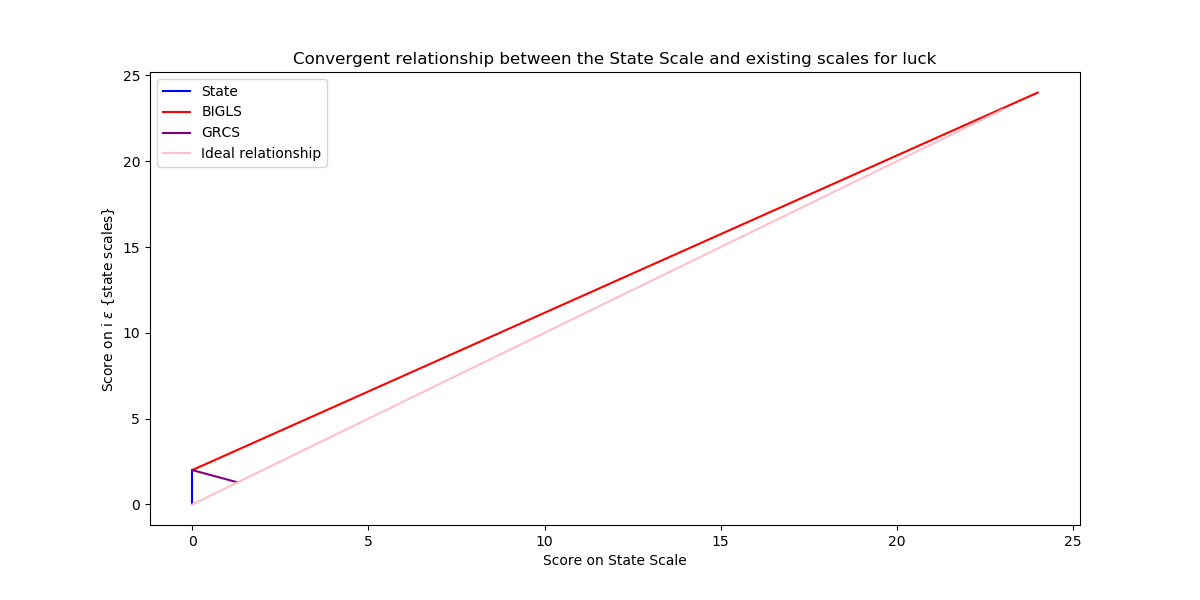
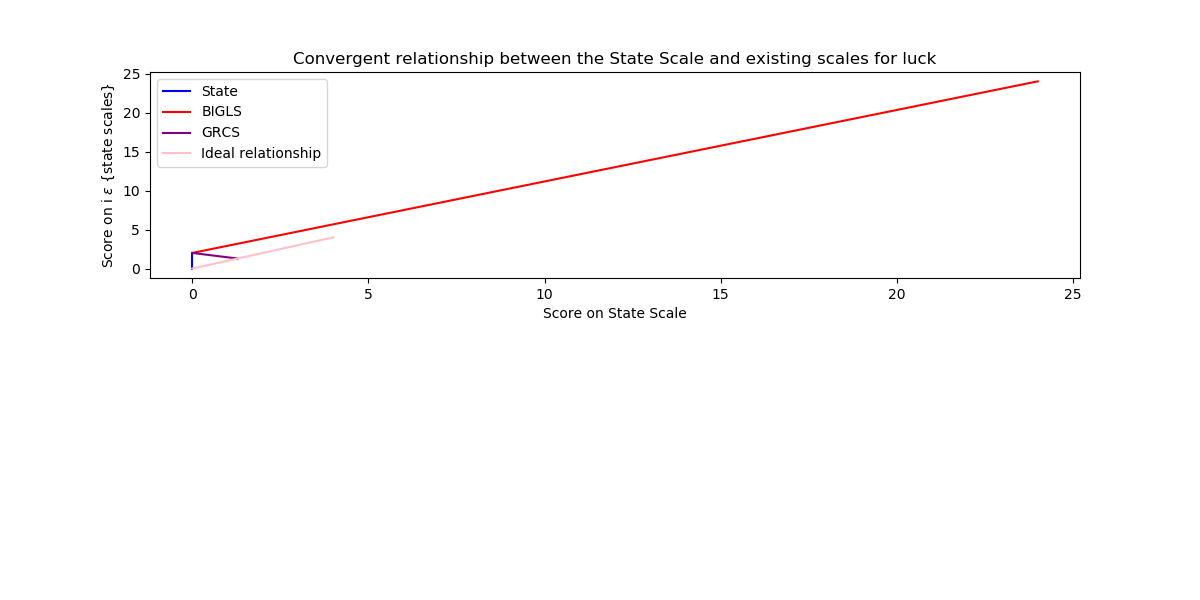
removed comments, added figures plotted, and added function to plot correlation coefficient graph

diff --git a/util.py b/util.py
@@ -49,6 +49,17 @@ def put_together(x, y):
             last = i[0]
     return toreturn
 
+def plot_corrcoef (y_plot, *args, **kwargs):
+    """
+    The purpose is to plot the graph of the scores on the state scales with the 
+        correlation coefficients
+    Input:
+        y_plot: scores of each scale {0:'State', 1:'BIGLS or GRCS', 2:'GRCS or oldState'}
+    Output:
+        None
+    """
+    return 0
+
 def plot_conv(y_plot, *args, **kwargs):
     """
     Plot all of the variables in the two lists in the form of x matrix and y
@@ -64,7 +75,7 @@ def plot_conv(y_plot, *args, **kwargs):
 
     plt.close()
     fig, axis = plt.subplots(2,1, dpi=dp, figsize=plotsize)
-#    plt.figure(1, dpi=dp, figsize=plotsize)
+    fig.tight_layout()
     
 #    one_to_one = np.arange(0, max(y_plot[0]))
     one_to_one = np.arange(0,5)
@@ -84,11 +95,8 @@ def plot_conv(y_plot, *args, **kwargs):
     axis[0].set_title("Convergent relationship between the State Scale and existing scales"+
               " for "+ kwargs.get("savefig"))
     axis[0].legend()
-#    plt.savefig(my_path + "/figures/State_vs_"+kwargs.get("savefig")+".png")
     
-
-#    plt.close()
-#    plt.figure(2, dpi=150, figsize=(8,4))
+    
     for i in range(len(y_plot)):
         y = y_plot[i]
         x_range = np.arange(len(y))
@@ -99,7 +107,7 @@ def plot_conv(y_plot, *args, **kwargs):
     axis[1].set_xlabel(kwargs.get("x_name"))
     axis[1].set_ylabel(kwargs.get("y_name"))
     axis[1].set_title(kwargs.get("title"))
-    fig.tight_layout()
+    plt.tight_layout()
     plt.savefig(my_path + "/figures/all_scales_and"+kwargs.get("savefig")+".png")
     
     return 0
@@ -275,6 +283,7 @@ def cronbach_alpha(items):
     https://github.com/anthropedia/tci-stats/blob/master/tcistats/__init__.py
     
     Used as a measure of internal validity
+    input: items (DataFrame)
     """
 #    items = pandas.DataFrame(items)
     items_count = items.shape[1]
